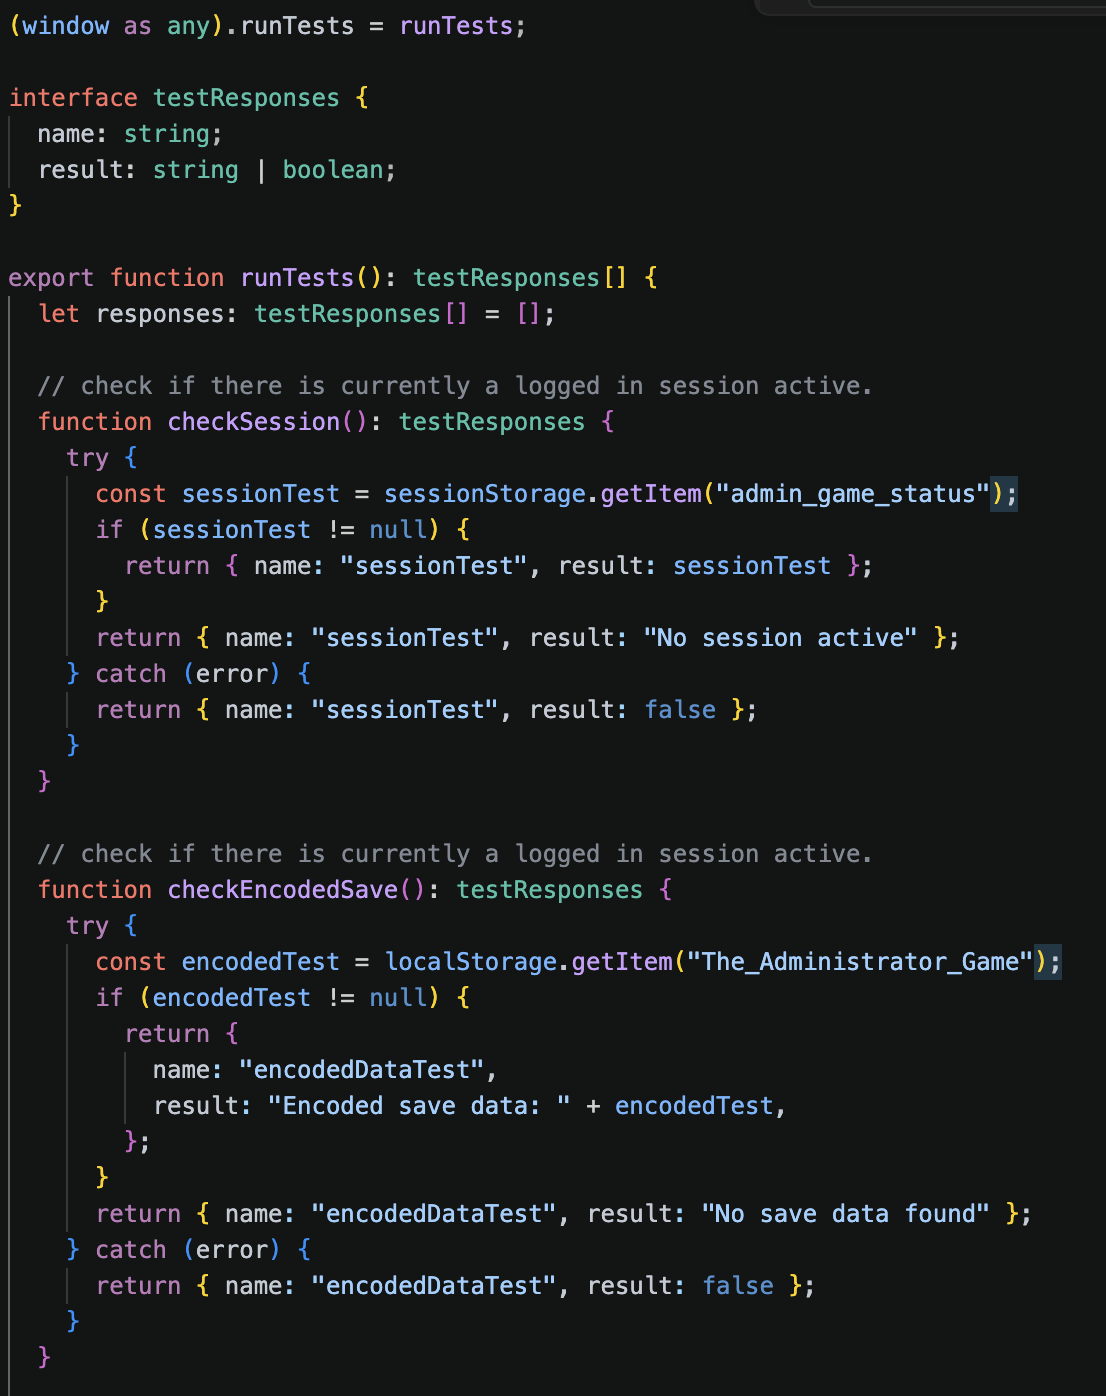
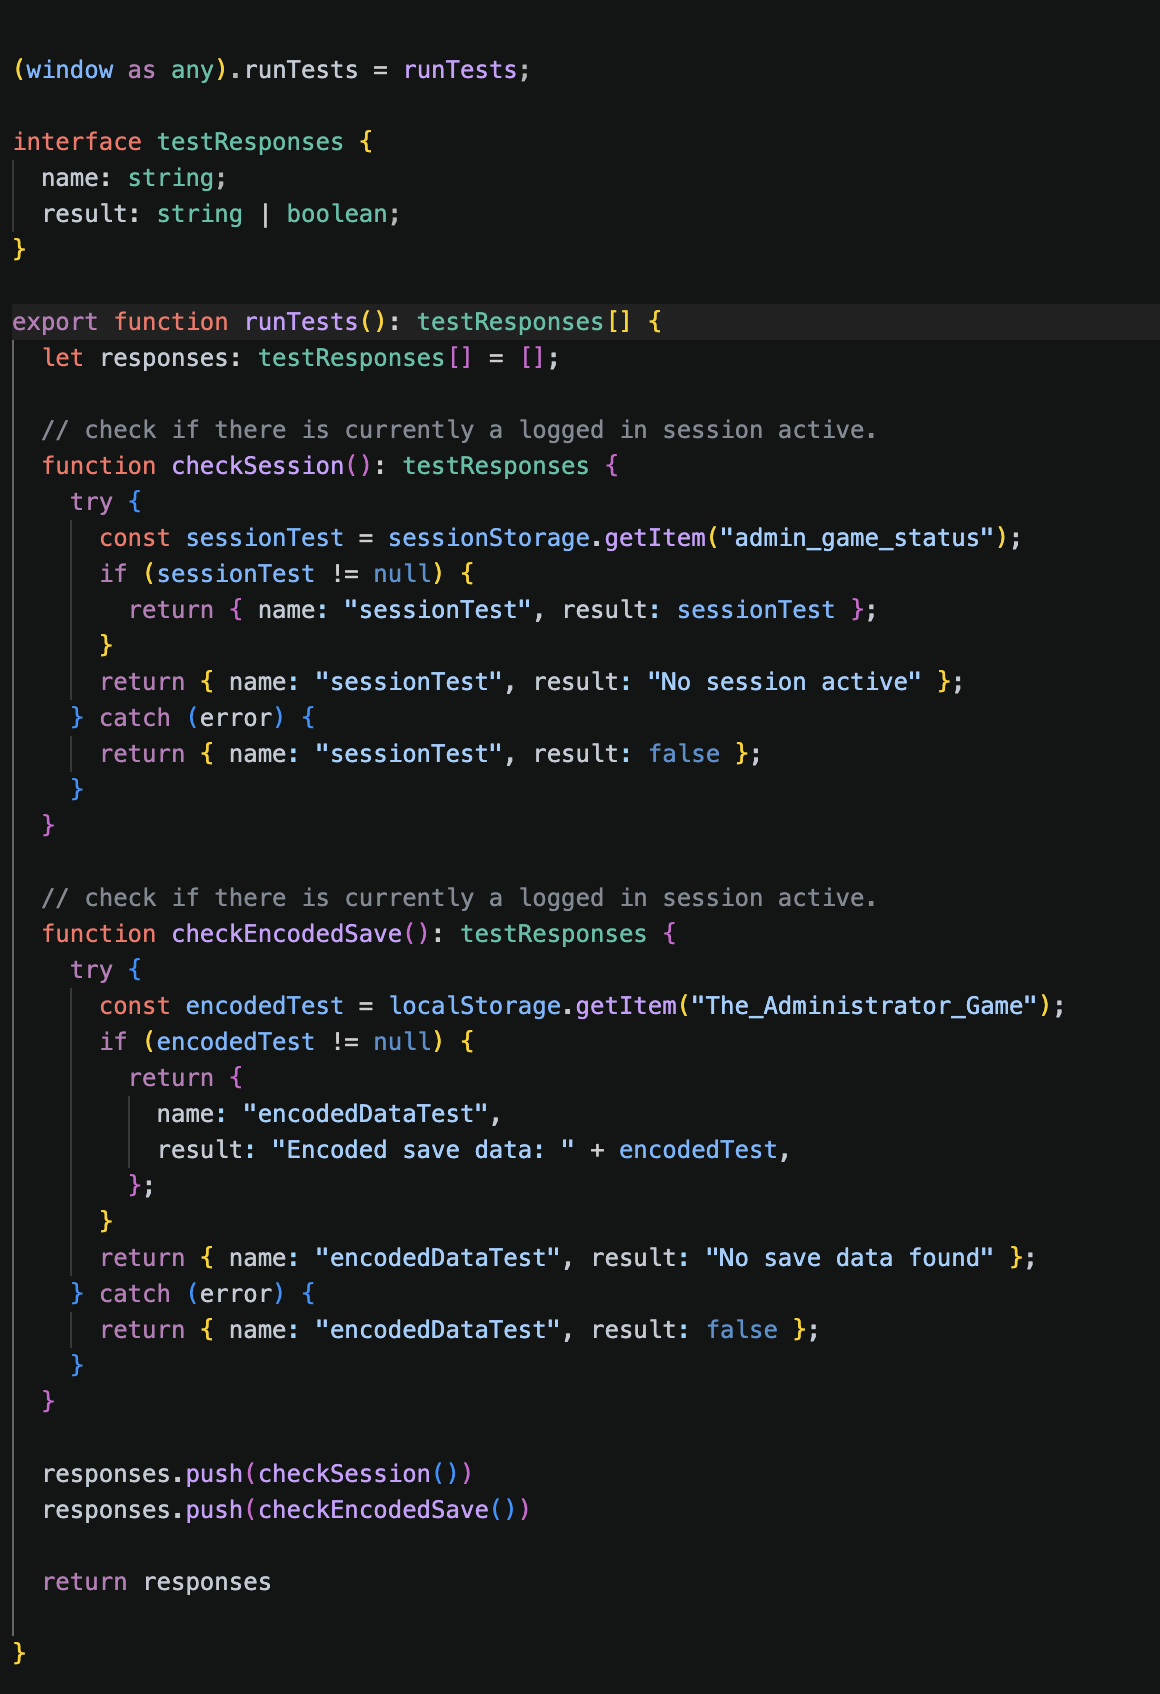
Readme: added auto test evidence. Manual vs auto testing rationale

diff --git a/src/App.tsx b/src/App.tsx
@@ -4,7 +4,6 @@ import TranscriptRev from "./components/case_review/CaseReview";
 import "./assets/css/App.css";
 import "./assets/css/tutorial.css";
 import "./assets/css/nav.css";
-
 import UpgradeShop from "./components/upgrade_shop/UpgradeShop";
 import CommandCentre from "./components/terminal/Terminal";
 import Login from "./components/login/Login";

diff --git a/src/components/case_review/CaseReview.tsx b/src/components/case_review/CaseReview.tsx
@@ -55,7 +55,6 @@ export default function TranscriptRev() {
     checkMoreCasesOverflow(),
   );
 
-
   const navigate = useNavigate();
   const tooltipRef1 = useRef<TooltipRefProps>(null);
 
@@ -203,6 +202,8 @@ export default function TranscriptRev() {
       moreCasesBox?.classList.add("visible-box");
     }
   }
+
+
 
   return (
     <>

diff --git a/README.md b/README.md
@@ -591,6 +591,8 @@ The React library has its own recommended file naming conventions and structure 
 * Non component .tsx files are named using camelCase
 * Variables and normal functions are named using camelCase
 
+Files deployed to the GitHub pages branch of the project follow standard naming conventions with lowercase spelling and no spaces. 
+
 ### Local storage
 
 Local storage has been used as a means of persisting users game data between sessions. This data stores information on their administrators name, cases reviewed, credits earned and unlocks purchased. 
@@ -771,6 +773,12 @@ Tests were carried out manually across a number of browsers to ensure that all f
 
 ## Testing
 
+The majority of my testing was undertaken manually by myself or test users. Moving through each user story and observing the results as well as testing each new feature to identify any bugs that may arise through conditional logic. Much of the functionality in the app has visual feedback so can be easily tested manually, with unexpected results being easily observable. 
+
+
+Automated testing is better suited to processes that will be repeated regularly, as well as to identify issues that may not directly impact on the rendered output of the app. (such as testing underlying game logic that may fail silently).
+Automated testing is more appropriate when there is a test case that exceeds the ability of humans to manually test, such as excessively repeating a task, generating significantly large amounts of data etc. It is also useful for testing authentication/data storage as well as processes that would otherwise be unseen by the user, but have an impact on the functionality of the app.  
+
 ### User Testing
 
 #### Play tester 1
@@ -884,7 +892,10 @@ For the sake of brevity, I have included an image of two of these tests.
 
   <img src="src/assets/images/readme/auto-tests.png" width=200>
 
-In the future, I would like to implement more useful automated testing strategies to ensure that my code is robust and consistent.
+  <img src="src/assets/images/readme/auto-test-results.png" width=500>
+
+
+In the future, I would like to implement more useful automated testing strategies to ensure that my code is robust and consistent. 
 
 
 ## Lighthouse Testing
